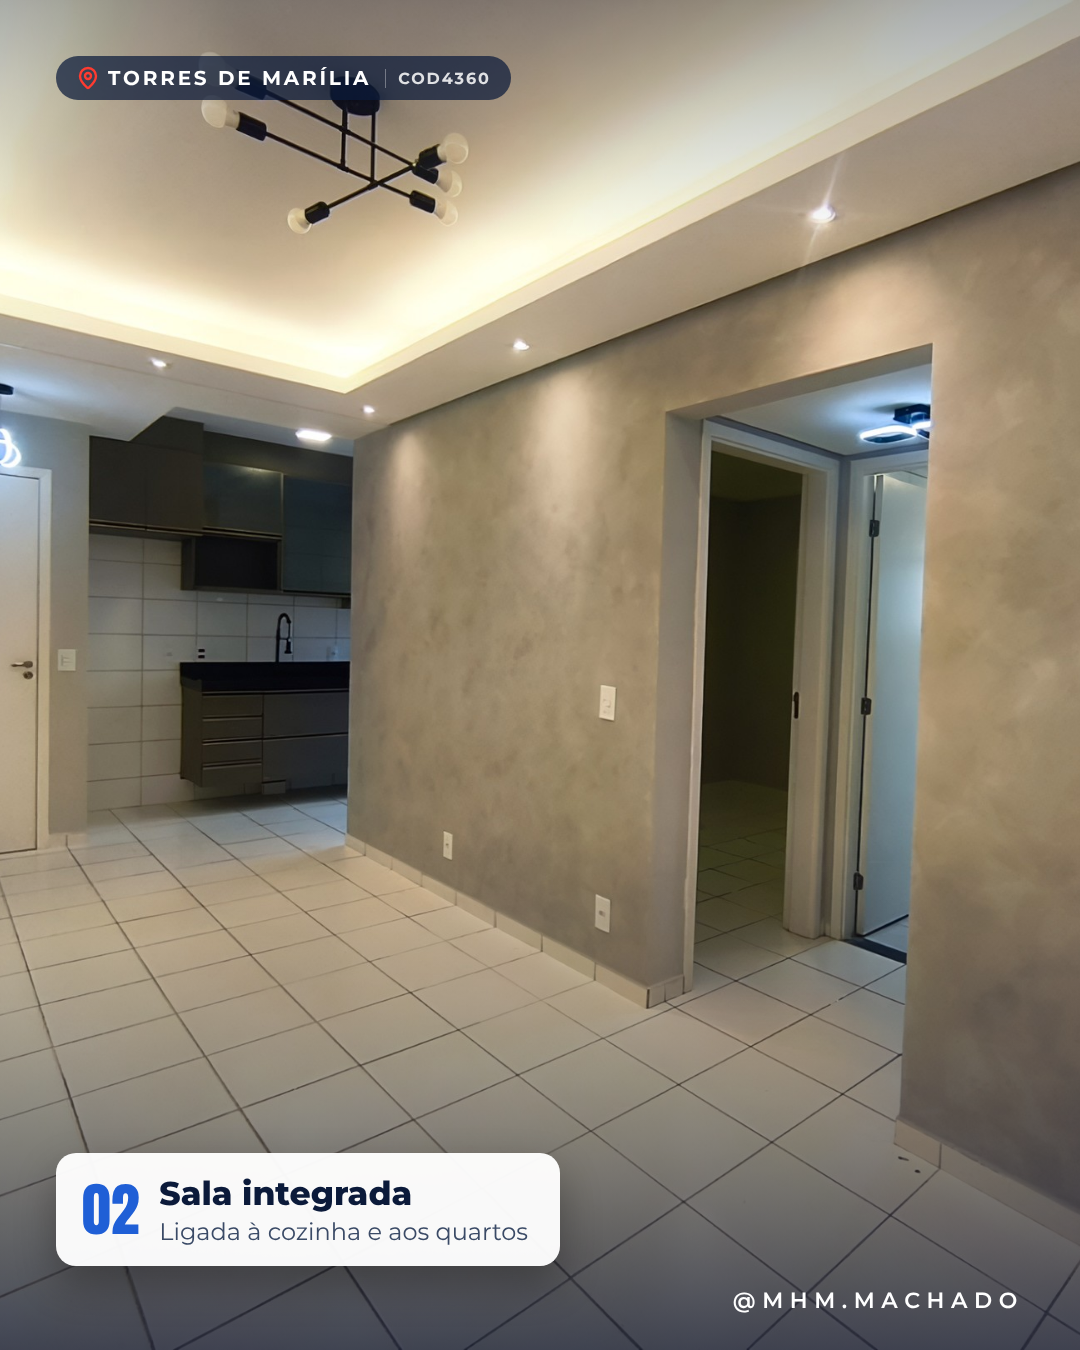
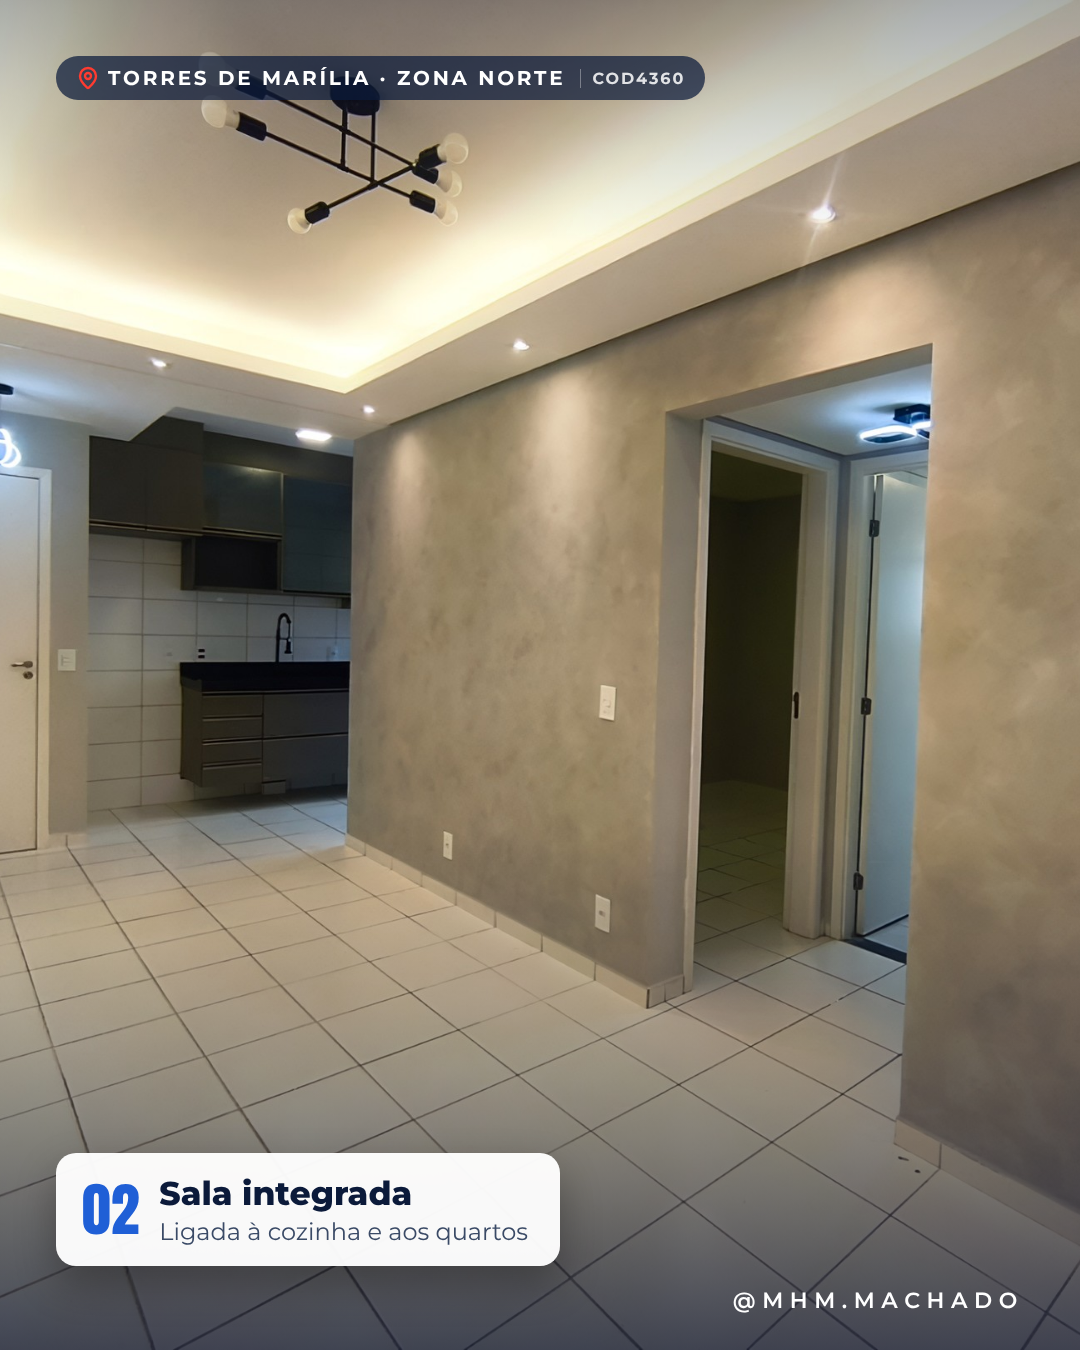
docs(posicionamento): COD4360 fica na Zona Norte
Claude-Session: https://claude.ai/code/session_014nbP29vyY3VypJGiymd4bb

Changed region(s): [[0.3667, 0.0311, 0.6722, 0.0933]]

diff --git a/docs/posicionamento/carrosseis/2026-10-24-torres-de-marilia-ape/laminas.html b/docs/posicionamento/carrosseis/2026-10-24-torres-de-marilia-ape/laminas.html
@@ -26,55 +26,55 @@
 <div style="position:absolute;left:70px;right:70px;top:80px;z-index:1">
  <div style="font:600 italic 42px 'Playfair Display';color:#DCE8FF;text-shadow:0 3px 12px rgba(0,0,0,.7)">Olha o que eu encontrei pra você…</div>
  <h1 class="cond" style="font-size:70px;white-space:nowrap;margin-top:10px;text-shadow:0 4px 18px rgba(0,0,0,.7)">Apê com <span style="color:#4C8DF6">cozinha planejada</span></h1>
- <div style="display:flex;align-items:center;gap:10px;font-size:30px;font-weight:700;margin-top:18px;text-shadow:0 4px 14px rgba(0,0,0,.5)"><svg class="ico" viewBox="0 0 24 24"><path d="M20 10c0 4.993-5.539 10.193-7.399 11.799a1 1 0 0 1-1.202 0C9.539 20.193 4 14.993 4 10a8 8 0 0 1 16 0" /><circle cx="12" cy="10" r="3" /></svg> Condomínio Torres de Marília</div>
+ <div style="display:flex;align-items:center;gap:10px;font-size:30px;font-weight:700;margin-top:18px;text-shadow:0 4px 14px rgba(0,0,0,.5)"><svg class="ico" viewBox="0 0 24 24"><path d="M20 10c0 4.993-5.539 10.193-7.399 11.799a1 1 0 0 1-1.202 0C9.539 20.193 4 14.993 4 10a8 8 0 0 1 16 0" /><circle cx="12" cy="10" r="3" /></svg> Torres de Marília · Zona Norte</div>
 </div>
 <img src="img/apontando.png" style="position:absolute;left:-190px;bottom:0;height:900px;z-index:2;transform:scaleX(-1);filter:drop-shadow(0 30px 60px rgba(0,0,0,.55))">
 <div class="cond" style="position:absolute;right:56px;bottom:220px;z-index:3;font-size:48px;background:#1F5FD6;padding:6px 28px 10px;border-radius:12px;box-shadow:0 14px 30px rgba(0,0,0,.35)">À venda</div><div style="position:absolute;right:56px;bottom:130px;z-index:4;display:flex;align-items:center;gap:12px;background:rgba(255,255,255,.95);color:#0B1A3A;font:800 24px Montserrat;letter-spacing:.12em;padding:12px 18px 12px 24px;border-radius:999px;box-shadow:0 12px 28px rgba(0,0,0,.35)">ARRASTE PARA VER MAIS <svg viewBox="0 0 24 24" style="width:34px;height:34px;fill:none;stroke:#1F5FD6;stroke-width:2.6;stroke-linecap:round;stroke-linejoin:round"><path d="M5 12h13M13 6l6 6-6 6"/></svg></div>
 <div style="position:absolute;right:60px;bottom:56px;z-index:3" class="handle">@MHM.MACHADO</div></section>
 <section class="lamina"><img class="bg" src="tn/f1.jpg" style="object-position:50% 55%">
 <div style="position:absolute;inset:0;background:linear-gradient(180deg,rgba(8,17,46,.35) 0%,rgba(8,17,46,0) 18%,rgba(8,17,46,0) 62%,rgba(8,17,46,.75) 100%)"></div>
-<div class="top"><svg class="ico" viewBox="0 0 24 24"><path d="M20 10c0 4.993-5.539 10.193-7.399 11.799a1 1 0 0 1-1.202 0C9.539 20.193 4 14.993 4 10a8 8 0 0 1 16 0" /><circle cx="12" cy="10" r="3" /></svg> TORRES DE MARÍLIA<span class="cod">COD4360</span></div>
+<div class="top"><svg class="ico" viewBox="0 0 24 24"><path d="M20 10c0 4.993-5.539 10.193-7.399 11.799a1 1 0 0 1-1.202 0C9.539 20.193 4 14.993 4 10a8 8 0 0 1 16 0" /><circle cx="12" cy="10" r="3" /></svg> TORRES DE MARÍLIA · ZONA NORTE<span class="cod">COD4360</span></div>
 <div class="lb"><span class="n">01</span><div><b>Sala de estar</b><small>Sanca com iluminação e parede em cimento queimado</small></div></div>
 <div style="position:absolute;right:56px;bottom:36px" class="handle">@MHM.MACHADO</div></section>
 <section class="lamina"><img class="bg" src="tn/f2.jpg" style="object-position:40% 50%">
 <div style="position:absolute;inset:0;background:linear-gradient(180deg,rgba(8,17,46,.35) 0%,rgba(8,17,46,0) 18%,rgba(8,17,46,0) 62%,rgba(8,17,46,.75) 100%)"></div>
-<div class="top"><svg class="ico" viewBox="0 0 24 24"><path d="M20 10c0 4.993-5.539 10.193-7.399 11.799a1 1 0 0 1-1.202 0C9.539 20.193 4 14.993 4 10a8 8 0 0 1 16 0" /><circle cx="12" cy="10" r="3" /></svg> TORRES DE MARÍLIA<span class="cod">COD4360</span></div>
+<div class="top"><svg class="ico" viewBox="0 0 24 24"><path d="M20 10c0 4.993-5.539 10.193-7.399 11.799a1 1 0 0 1-1.202 0C9.539 20.193 4 14.993 4 10a8 8 0 0 1 16 0" /><circle cx="12" cy="10" r="3" /></svg> TORRES DE MARÍLIA · ZONA NORTE<span class="cod">COD4360</span></div>
 <div class="lb"><span class="n">02</span><div><b>Sala integrada</b><small>Ligada à cozinha e aos quartos</small></div></div>
 <div style="position:absolute;right:56px;bottom:36px" class="handle">@MHM.MACHADO</div></section>
 <section class="lamina"><img class="bg" src="tn/f3.jpg" style="object-position:50% 60%">
 <div style="position:absolute;inset:0;background:linear-gradient(180deg,rgba(8,17,46,.35) 0%,rgba(8,17,46,0) 18%,rgba(8,17,46,0) 62%,rgba(8,17,46,.75) 100%)"></div>
-<div class="top"><svg class="ico" viewBox="0 0 24 24"><path d="M20 10c0 4.993-5.539 10.193-7.399 11.799a1 1 0 0 1-1.202 0C9.539 20.193 4 14.993 4 10a8 8 0 0 1 16 0" /><circle cx="12" cy="10" r="3" /></svg> TORRES DE MARÍLIA<span class="cod">COD4360</span></div>
+<div class="top"><svg class="ico" viewBox="0 0 24 24"><path d="M20 10c0 4.993-5.539 10.193-7.399 11.799a1 1 0 0 1-1.202 0C9.539 20.193 4 14.993 4 10a8 8 0 0 1 16 0" /><circle cx="12" cy="10" r="3" /></svg> TORRES DE MARÍLIA · ZONA NORTE<span class="cod">COD4360</span></div>
 <div class="lb"><span class="n">03</span><div><b>Cozinha planejada</b><small>Cooktop, forno embutido e bancada em granito</small></div></div>
 <div style="position:absolute;right:56px;bottom:36px" class="handle">@MHM.MACHADO</div></section>
 <section class="lamina"><img class="bg" src="tn/f4.jpg" style="object-position:50% 55%">
 <div style="position:absolute;inset:0;background:linear-gradient(180deg,rgba(8,17,46,.35) 0%,rgba(8,17,46,0) 18%,rgba(8,17,46,0) 62%,rgba(8,17,46,.75) 100%)"></div>
-<div class="top"><svg class="ico" viewBox="0 0 24 24"><path d="M20 10c0 4.993-5.539 10.193-7.399 11.799a1 1 0 0 1-1.202 0C9.539 20.193 4 14.993 4 10a8 8 0 0 1 16 0" /><circle cx="12" cy="10" r="3" /></svg> TORRES DE MARÍLIA<span class="cod">COD4360</span></div>
+<div class="top"><svg class="ico" viewBox="0 0 24 24"><path d="M20 10c0 4.993-5.539 10.193-7.399 11.799a1 1 0 0 1-1.202 0C9.539 20.193 4 14.993 4 10a8 8 0 0 1 16 0" /><circle cx="12" cy="10" r="3" /></svg> TORRES DE MARÍLIA · ZONA NORTE<span class="cod">COD4360</span></div>
 <div class="lb"><span class="n">04</span><div><b>Cozinha e área de serviço</b><small>Armários até o teto e janela ampla</small></div></div>
 <div style="position:absolute;right:56px;bottom:36px" class="handle">@MHM.MACHADO</div></section>
 <section class="lamina"><img class="bg" src="tn/f5.jpg" style="object-position:50% 55%">
 <div style="position:absolute;inset:0;background:linear-gradient(180deg,rgba(8,17,46,.35) 0%,rgba(8,17,46,0) 18%,rgba(8,17,46,0) 62%,rgba(8,17,46,.75) 100%)"></div>
-<div class="top"><svg class="ico" viewBox="0 0 24 24"><path d="M20 10c0 4.993-5.539 10.193-7.399 11.799a1 1 0 0 1-1.202 0C9.539 20.193 4 14.993 4 10a8 8 0 0 1 16 0" /><circle cx="12" cy="10" r="3" /></svg> TORRES DE MARÍLIA<span class="cod">COD4360</span></div>
+<div class="top"><svg class="ico" viewBox="0 0 24 24"><path d="M20 10c0 4.993-5.539 10.193-7.399 11.799a1 1 0 0 1-1.202 0C9.539 20.193 4 14.993 4 10a8 8 0 0 1 16 0" /><circle cx="12" cy="10" r="3" /></svg> TORRES DE MARÍLIA · ZONA NORTE<span class="cod">COD4360</span></div>
 <div class="lb"><span class="n">05</span><div><b>Quarto 1</b><small>Bem iluminado, com janela</small></div></div>
 <div style="position:absolute;right:56px;bottom:36px" class="handle">@MHM.MACHADO</div></section>
 <section class="lamina"><img class="bg" src="tn/f6.jpg" style="object-position:50% 55%">
 <div style="position:absolute;inset:0;background:linear-gradient(180deg,rgba(8,17,46,.35) 0%,rgba(8,17,46,0) 18%,rgba(8,17,46,0) 62%,rgba(8,17,46,.75) 100%)"></div>
-<div class="top"><svg class="ico" viewBox="0 0 24 24"><path d="M20 10c0 4.993-5.539 10.193-7.399 11.799a1 1 0 0 1-1.202 0C9.539 20.193 4 14.993 4 10a8 8 0 0 1 16 0" /><circle cx="12" cy="10" r="3" /></svg> TORRES DE MARÍLIA<span class="cod">COD4360</span></div>
+<div class="top"><svg class="ico" viewBox="0 0 24 24"><path d="M20 10c0 4.993-5.539 10.193-7.399 11.799a1 1 0 0 1-1.202 0C9.539 20.193 4 14.993 4 10a8 8 0 0 1 16 0" /><circle cx="12" cy="10" r="3" /></svg> TORRES DE MARÍLIA · ZONA NORTE<span class="cod">COD4360</span></div>
 <div class="lb"><span class="n">06</span><div><b>Quarto 2</b><small>Pronto para morar</small></div></div>
 <div style="position:absolute;right:56px;bottom:36px" class="handle">@MHM.MACHADO</div></section>
 <section class="lamina"><img class="bg" src="tn/f7.jpg" style="object-position:50% 50%">
 <div style="position:absolute;inset:0;background:linear-gradient(180deg,rgba(8,17,46,.35) 0%,rgba(8,17,46,0) 18%,rgba(8,17,46,0) 62%,rgba(8,17,46,.75) 100%)"></div>
-<div class="top"><svg class="ico" viewBox="0 0 24 24"><path d="M20 10c0 4.993-5.539 10.193-7.399 11.799a1 1 0 0 1-1.202 0C9.539 20.193 4 14.993 4 10a8 8 0 0 1 16 0" /><circle cx="12" cy="10" r="3" /></svg> TORRES DE MARÍLIA<span class="cod">COD4360</span></div>
+<div class="top"><svg class="ico" viewBox="0 0 24 24"><path d="M20 10c0 4.993-5.539 10.193-7.399 11.799a1 1 0 0 1-1.202 0C9.539 20.193 4 14.993 4 10a8 8 0 0 1 16 0" /><circle cx="12" cy="10" r="3" /></svg> TORRES DE MARÍLIA · ZONA NORTE<span class="cod">COD4360</span></div>
 <div class="lb"><span class="n">07</span><div><b>Banheiro</b><small>Box de vidro</small></div></div>
 <div style="position:absolute;right:56px;bottom:36px" class="handle">@MHM.MACHADO</div></section>
 <section class="lamina"><img class="bg" src="tn/f8.jpg" style="object-position:50% 55%">
 <div style="position:absolute;inset:0;background:linear-gradient(180deg,rgba(8,17,46,.35) 0%,rgba(8,17,46,0) 18%,rgba(8,17,46,0) 62%,rgba(8,17,46,.75) 100%)"></div>
-<div class="top"><svg class="ico" viewBox="0 0 24 24"><path d="M20 10c0 4.993-5.539 10.193-7.399 11.799a1 1 0 0 1-1.202 0C9.539 20.193 4 14.993 4 10a8 8 0 0 1 16 0" /><circle cx="12" cy="10" r="3" /></svg> TORRES DE MARÍLIA<span class="cod">COD4360</span></div>
+<div class="top"><svg class="ico" viewBox="0 0 24 24"><path d="M20 10c0 4.993-5.539 10.193-7.399 11.799a1 1 0 0 1-1.202 0C9.539 20.193 4 14.993 4 10a8 8 0 0 1 16 0" /><circle cx="12" cy="10" r="3" /></svg> TORRES DE MARÍLIA · ZONA NORTE<span class="cod">COD4360</span></div>
 <div class="lb"><span class="n">08</span><div><b>Sala e entrada</b><small>Spots embutidos e luminária pendente</small></div></div>
 <div style="position:absolute;right:56px;bottom:36px" class="handle">@MHM.MACHADO</div></section>
 <section class="lamina" style="background:radial-gradient(900px 760px at 50% 34%, #FFFFFF 0%, #F7F9FD 35%, #EAF0FA 70%, #DCE5F4 100%);color:#0B1A3A">
 <img src="img/chave.png" style="position:absolute;right:-280px;bottom:0;height:960px;filter:drop-shadow(0 30px 50px rgba(11,26,58,.25))">
 <div style="position:absolute;left:80px;top:250px;width:520px">
- <div style="font-size:22px;font-weight:800;letter-spacing:.24em;color:#1F5FD6">TORRES DE MARÍLIA</div>
+ <div style="font-size:22px;font-weight:800;letter-spacing:.24em;color:#1F5FD6">TORRES DE MARÍLIA · ZONA NORTE</div>
  <h2 class="cond" style="font-size:100px;margin-top:22px">Gostou?<br>Vem <span style="color:#1F5FD6">conhecer</span><br>de perto.</h2>
  <p style="font-size:32px;line-height:1.45;font-weight:500;color:#3A4A66;margin-top:28px">Apartamento pronto para morar, com <b style="color:#0B1A3A">cozinha planejada.</b></p>
  <div style="margin-top:36px;border-left:5px solid #1F5FD6;padding-left:24px;font-size:33px;line-height:1.35;font-weight:600"><span class="cond" style="font-size:52px;color:#1F5FD6">Me chama</span><br>no Direct ou no WhatsApp.</div>

diff --git a/docs/posicionamento/carrosseis/2026-10-24-torres-de-marilia-ape/legenda.md b/docs/posicionamento/carrosseis/2026-10-24-torres-de-marilia-ape/legenda.md
@@ -2,7 +2,7 @@
 
 Código **COD4360** (só no selo de cima). Carrossel com 10 lâminas no modelo padrão; capa com as **duas primeiras fotos** enviadas (sala em cima, cozinha embaixo), a pedido do dono. Das 13 fotos, 8 entraram (salas repetidas ficaram de fora). Resolução aumentada 2x (ESRGAN). **Sem valor no post.** Capa do Marketplace: `capa-marketplace.jpg`.
 
-Dados enviados pelo dono: apartamento à venda no Condomínio Torres de Marília; cozinha planejada; R$ 210.000,00. Contato: proprietário Agnelo, +55 14 99664-9063. Quartos (2) e banheiro (1) contados pelas fotos.
+Dados enviados pelo dono: apartamento à venda no Condomínio Torres de Marília (Zona Norte); cozinha planejada; R$ 210.000,00. Contato: proprietário Agnelo, +55 14 99664-9063. Quartos (2) e banheiro (1) contados pelas fotos.
 
 ## Site / CRM
 
@@ -14,7 +14,7 @@ Dados enviados pelo dono: apartamento à venda no Condomínio Torres de Marília
 
 ## Legenda
 
-Apartamento à venda no Condomínio Torres de Marília 🏡
+Apartamento à venda no Condomínio Torres de Marília, na Zona Norte 🏡
 
 Pronto para morar, com cozinha planejada e acabamento caprichado: sanca com iluminação na sala, parede em cimento queimado e spots embutidos.
 
